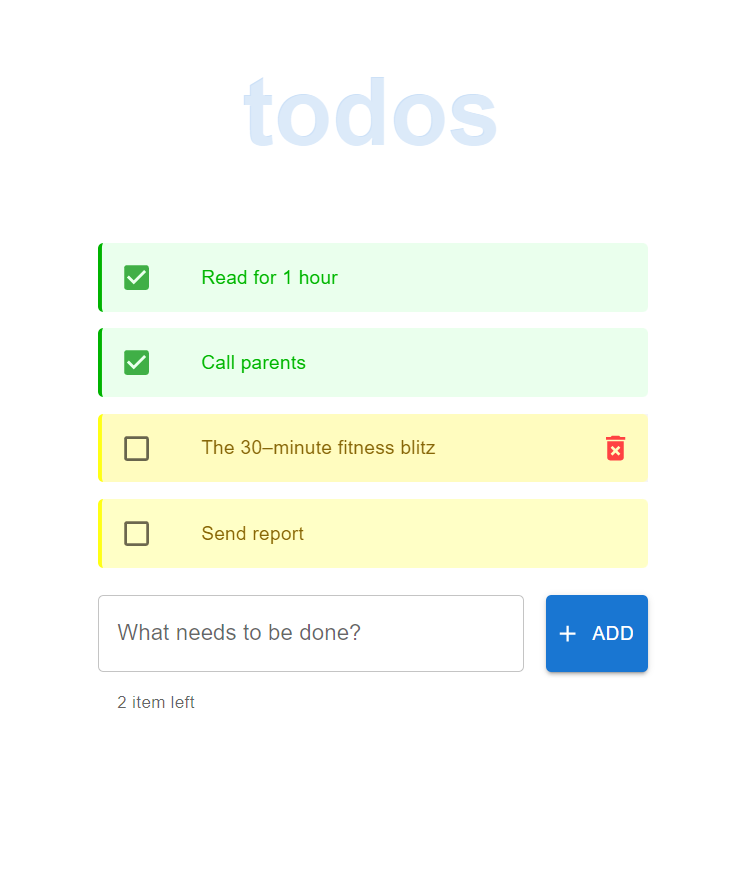
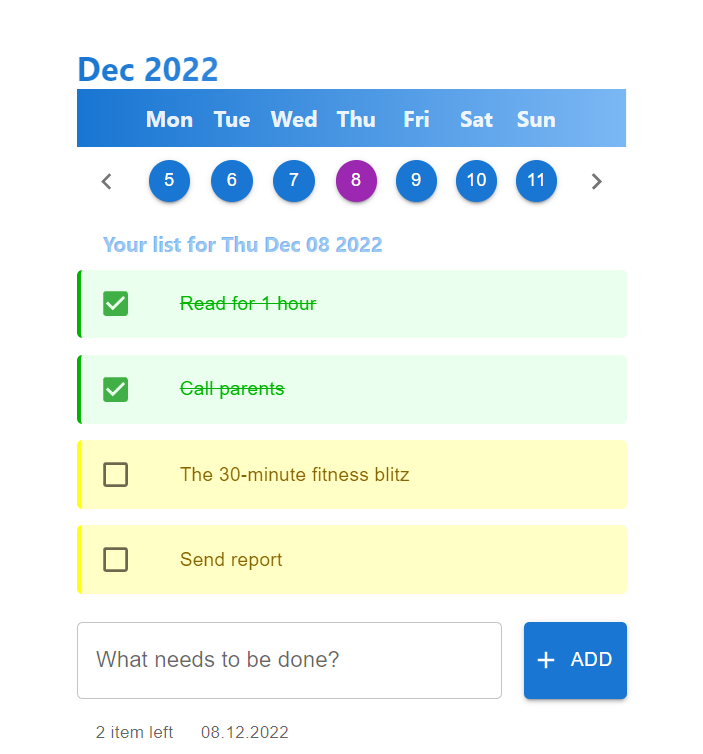
Update README

diff --git a/README.md b/README.md
@@ -7,10 +7,13 @@ This project was created by using Class components.
 
 ## Features
 
+* Calendar
 * Add a todo 
 * Mark as completed
 * Remove a todo
+* Todo persistence
 * Responsive design
+
 
 ## Project screenshot
 
@@ -19,7 +22,6 @@ This project was created by using Class components.
 ## Future features
 
 * Filter todos
-* DatePicker
 * Todo categorization
 
 ## Tech Stack
@@ -27,5 +29,8 @@ This project was created by using Class components.
 * ES6
 * React
 * MUI 
+* Redux
+* Redux Toolkit
+* Redux Persist
 
 
